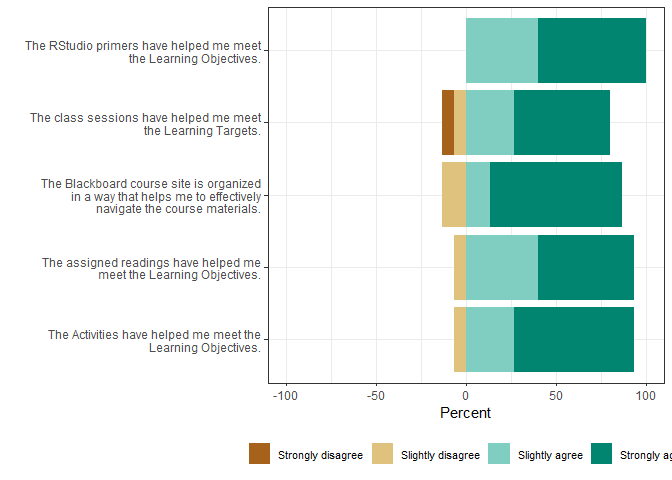
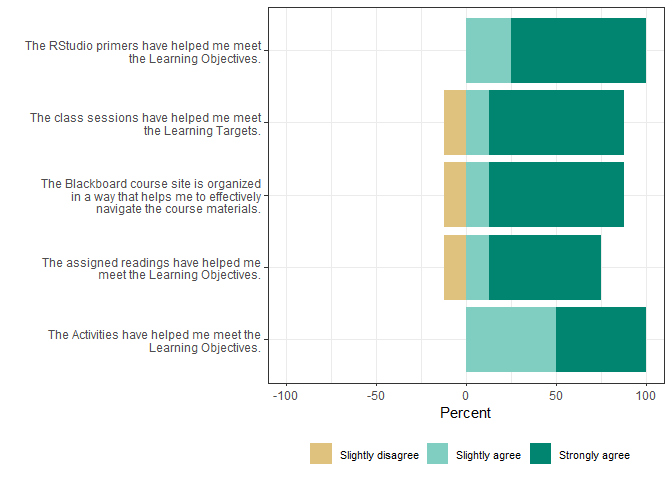
Update for SS2022.

diff --git a/README.md b/README.md
@@ -12,9 +12,12 @@ library(ggwordcloud)
 ```
 
 ``` r
-# You might run into an authentication issue here
-sta518_evals <- read_sheet("1VR46X3WlsLgrpGtvDG1OUanpSBQ1NWsEs5dsenko8zk",
+# You wont be able to run this as you do not have access on my GDrive
+# However, the string here is from the Google Sheet's url - between the "/d/ and "/edit..."
+sta518_evals <- read_sheet("1MkwRbzcshJo1qPzooP2Ww829KzUN2jj4EH2eKPCWRfA",
+# Like the tidyverse "read_*" functions, you can specify missing values.
                            na = "I have not attempted")
+# All questions were required so I am treating students that have not attempted something as missing.
 ```
 
 ``` r
@@ -68,9 +71,11 @@ course_design_disagree <- course_design %>%
 
 # PLOT!!!!
 ggplot() +
+  # Notice that I am plotting two different datasets, the "agree" dataset:
   geom_bar(data = course_design_agree, 
            aes(y = str_wrap(item, width = 40), x = perc, fill = color),
            position = "stack", stat = "identity") +
+  # And the "disagree" dataset:
   geom_bar(data = course_design_disagree,
            aes(y = str_wrap(item, width = 40), x = -perc, fill = color),
            position = "stack", stat = "identity") +
